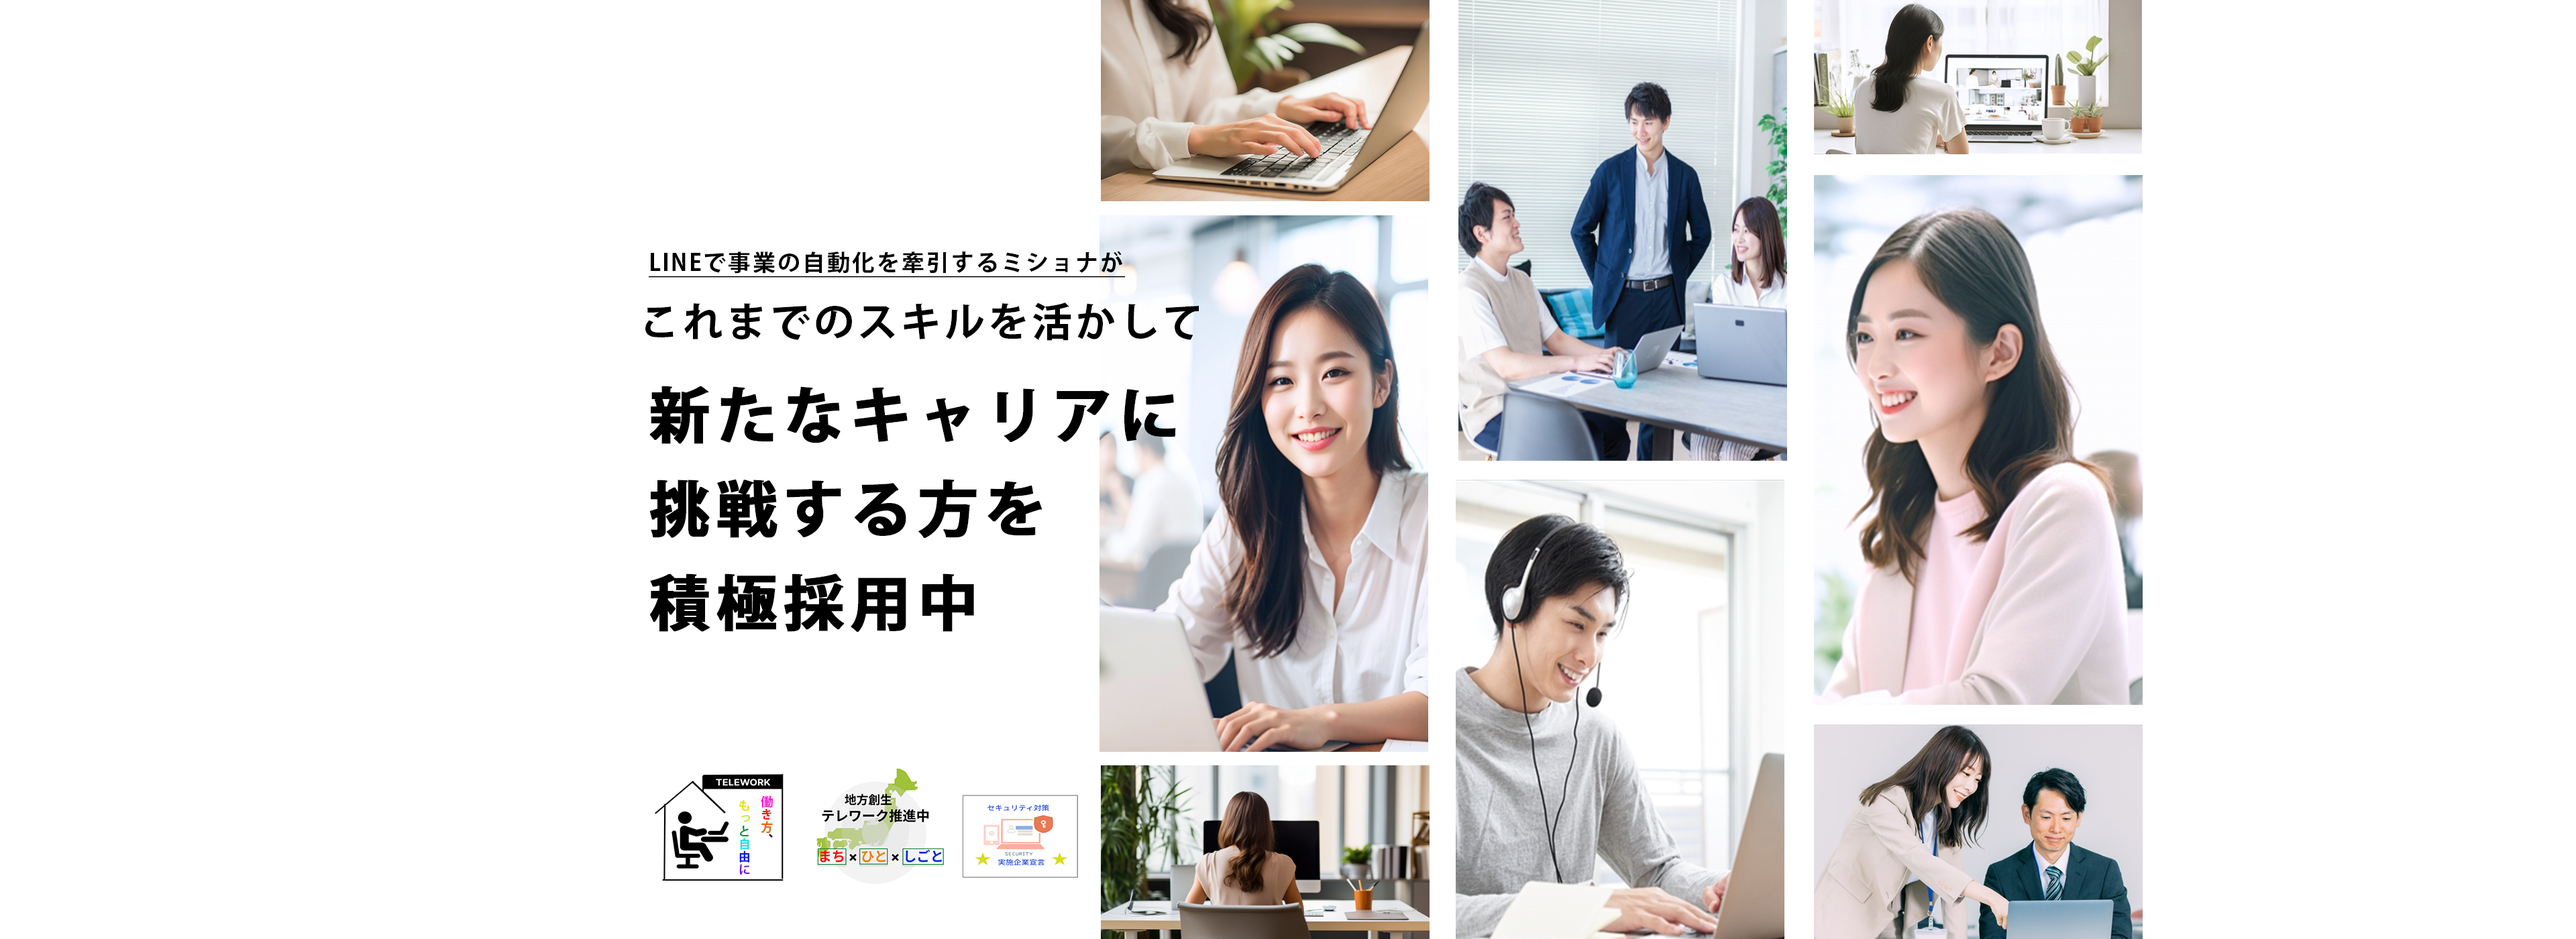
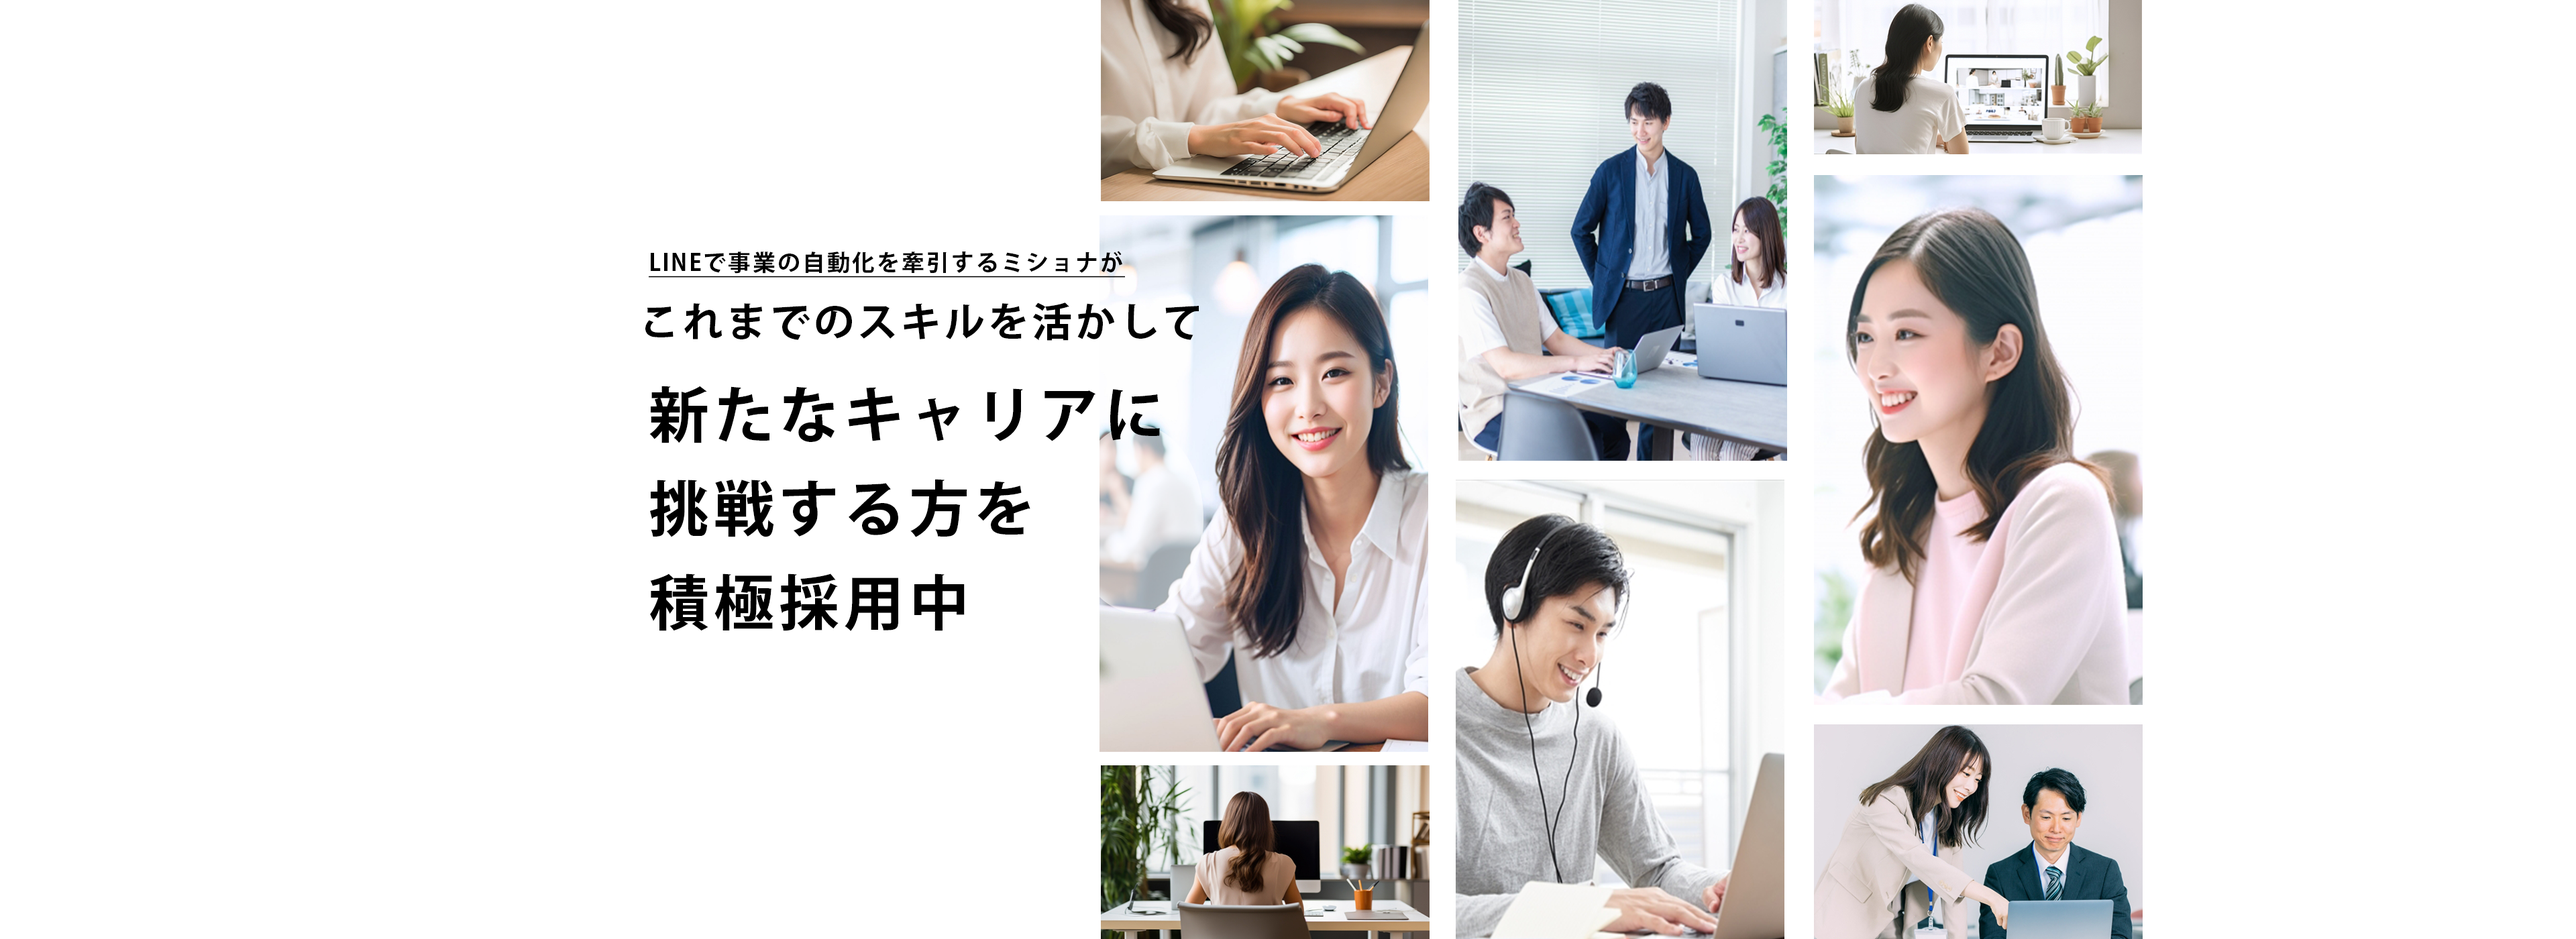
kadai追加

diff --git a/kadai/index.html b/kadai/index.html
@@ -12,7 +12,9 @@
 </head>
 
 <body>
-  <div>
+  <div class="outer">
+  <div class="wrapper">
+  <div class="relative">
     <img class="header_img" src="image/header.png" alt="会社ロゴ">
     <a href="https://s.lmes.jp/landing-qr/1657039217-16wNpM75?uLand=JE5a4h" target="_blank" class="cv_area_1" data-type="click" rel="noopener noreferrer">
       <img id="header_btn" src="image/header_btn.png" alt="まずはLINE追加して詳細を見る">
@@ -66,6 +68,8 @@
     <p>その手段の1つとしてLINE公式アカウントの自動化ツール「L Message」を開発し、企業や店舗様への導入支援や事業課題の解決をサポートしています。</p>
     <p>LINEは誰もが使っているサービスですが、ビジネスへの活用はまだ一般的ではありません。もっと大勢の人に知って欲しい魅力的な店舗や企業様を世の中に伝えることができる大きな可能性を秘めている媒体にもかかわらず、そのノウハウを熟知したプレイヤーが不足しているのが現状です。</p>
     <p>私たちはL Messageの提供を通じてビジョンの実現を目指しています。この思いに共感し、ともに活動頂ける皆様とお会いできることを楽しみにしています。</p>
+  </div>
+  </div>
   </div>
 </body>
 

diff --git a/kadai/style.css b/kadai/style.css
@@ -31,6 +31,19 @@ body {
   min-width: 960px;
   overflow-x: hidden;
 }
+.outer {
+  overflow-x: hidden;
+  display: flex;
+  justify-content: center;
+  align-items: flex-start;
+}
+.wrapper {
+  width: 1920px;
+  margin: auto;
+
+}.relative {
+  position: relative;
+}
 .header_img {
   position: fixed;
   top: 19px;
@@ -50,10 +63,9 @@ body {
   transition: filter 0.3 ease;
 }
 .main_image {
-  display: block;
-  right: 20%;
-  width: 100%;
-  height: 700px;
+  width: 1920px;
+  height: auto;
+  vertical-align: bottom;
 }
 .redline {
   background-color: #d42e1e;
